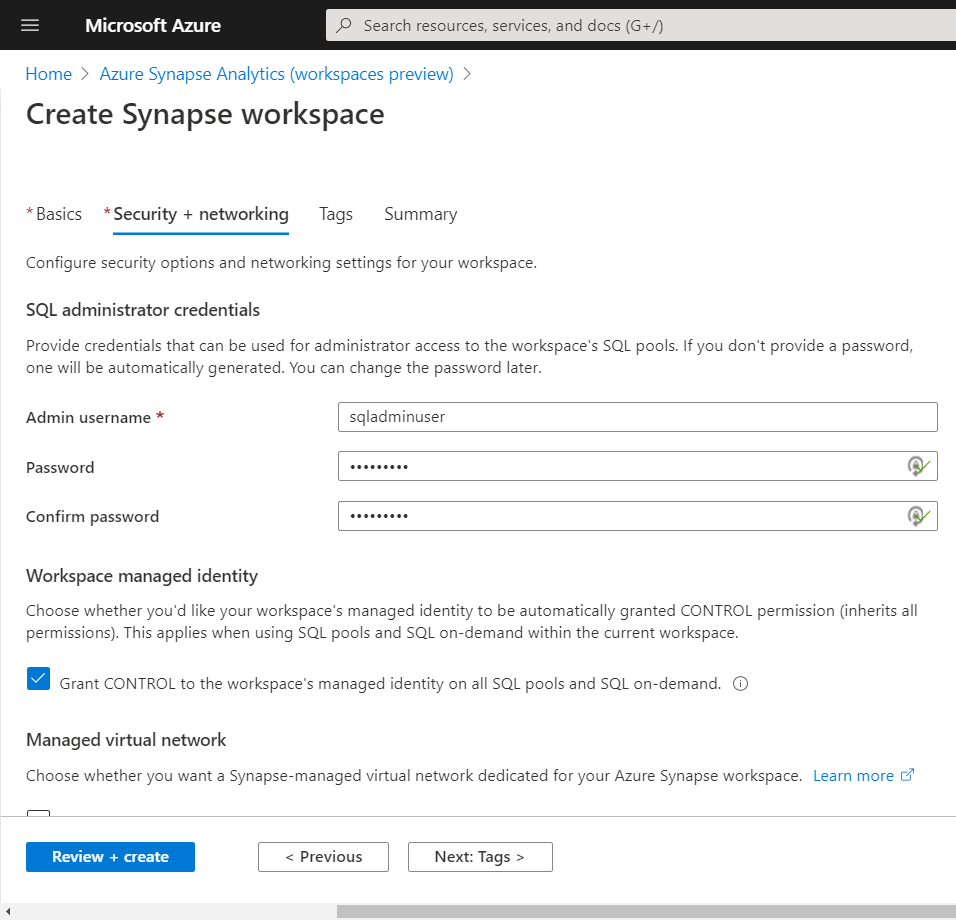
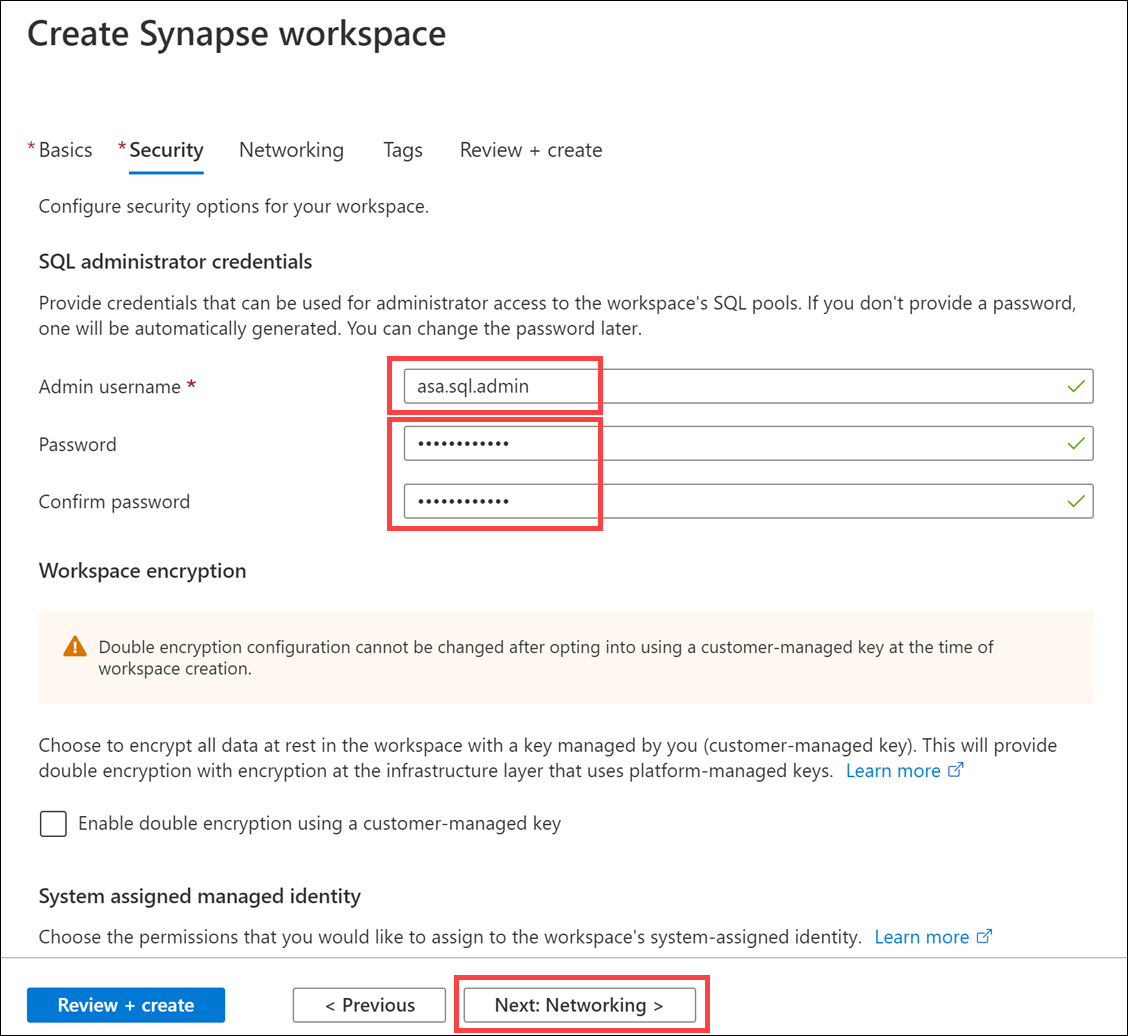
Updated Synapse environment setup & Power BI connection steps

diff --git a/fraud-detection/Setup.md b/fraud-detection/Setup.md
@@ -221,11 +221,15 @@ Azure Data Lake Storage Gen2 will be critical for integration throughout the han
 
    > **Important**: Be sure to check the box which reads "Assign myself the Storage Blob Data Contributor role on the Data Lake Storage Gen2 account"!  If you do not check this box, you will be unable to complete certain exercises unless you add your account as a Storage Blob Data Contributor later.
 
-4. Select **Next : Security + networking >** to move on to the Security and Networking page.  On the Security and Networking page, enter a valid password you will remember. Leave the other options at their default values.
+4. Select **Next : Security >** to move on to the Security page. On the Security and Networking page, enter **asa.sql.admin** for the Admin username and a valid password you will remember. Leave the other options at their default values.
 
-    ![The Security and Networking page with a valid password entered.](media/azure-create-synapse-2.png 'Security and Networking')
+    ![The Security page with a valid password entered.](media/azure-create-synapse-2.png 'Security')
 
-5. Select **Review + create**. On the review screen, select **Create**.  Provisioning takes **up to 10** minutes.
+5. Select **Next: Networking >** to move to the Networking page. Make sure **Allow connections from all IP addresses** is checked.
+
+    ![The Networking page is displayed.](media/azure-create-synapse-networking.png "Networking")
+
+6. Select **Review + create**. On the review screen, select **Create**.  Provisioning takes **up to 10** minutes.
 
 ### Task 6: Upload Materials Required for the Hands-On Training
 

diff --git a/fraud-detection/README.md b/fraud-detection/README.md
@@ -449,7 +449,7 @@ You will use masked data, obtained by applying principal component analysis to c
 
     ![The Power BI dataset file is downloaded.](media/power-bi-new-dataset-3.png 'Download pbids file')
 
-11. Open the downloaded Power BI dataset file in Power BI Desktop.  When prompted to enter a username and password, select **Database** and enter the Synapse username and password you created before the hands-on lab, or which was provided to you as part of a hosted environment. The username will be **sqladminuser** by default. Then select **Connect** to connect to the SQL pool.
+11. Open the downloaded Power BI dataset file in Power BI Desktop.  When prompted to enter a username and password, select **Database** and enter the Synapse username and password you created before the hands-on lab, or which was provided to you as part of a hosted environment. The username will be **asa.sql.admin**. Then select **Connect** to connect to the SQL pool.
 
     ![The credentials for the Synapse admin user are entered.](media/power-bi-new-dataset-4.png 'Connect to SQL Pool')
 
